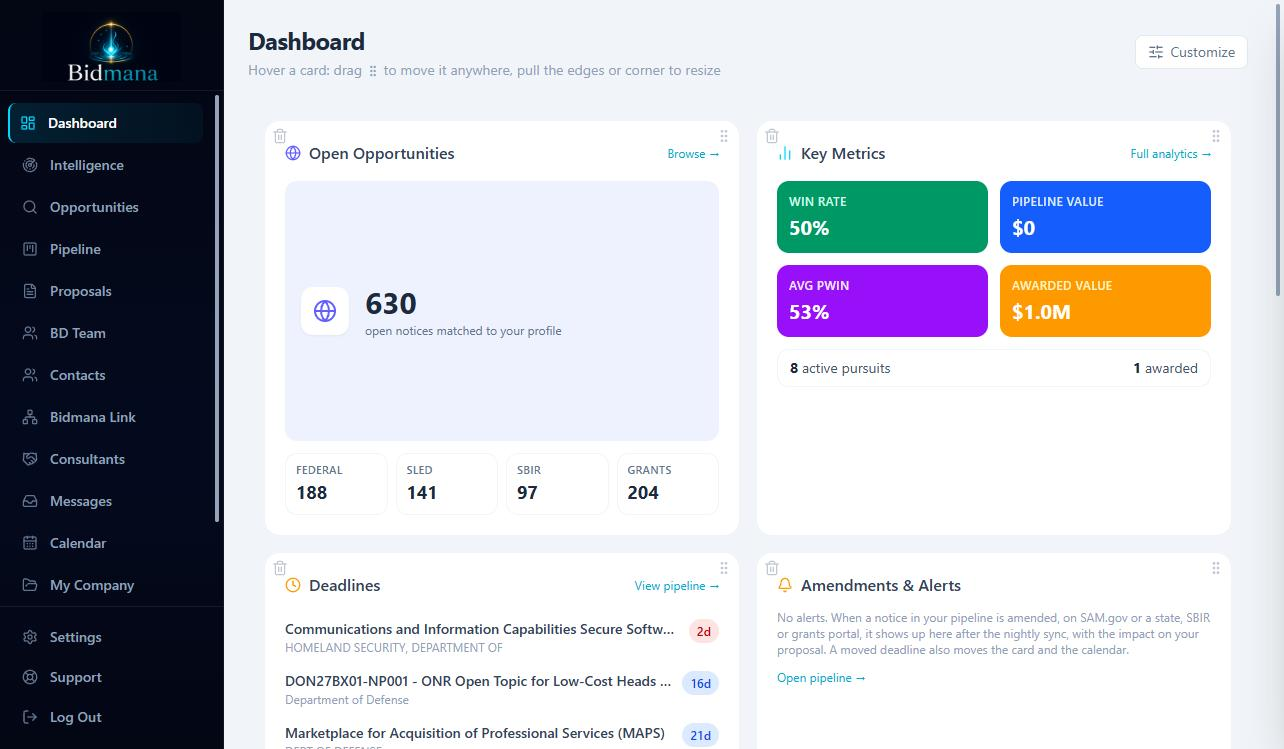
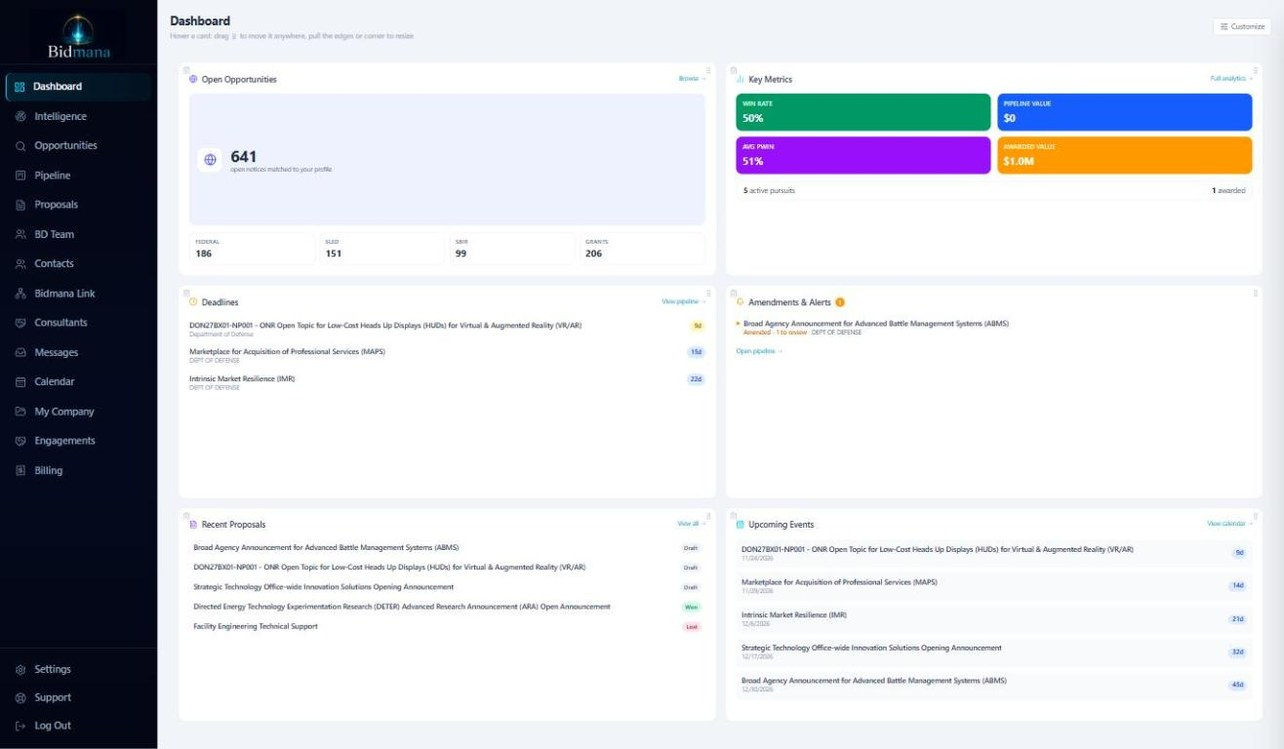
Showcase: dashboard screenshot shows the whole dashboard, nothing cut off

diff --git a/index.html b/index.html
@@ -91,7 +91,7 @@
         </div>
         <div class="shot-screens">
           <figure class="shot-screen is-active" id="shot-dashboard" role="tabpanel" aria-labelledby="tab-dashboard">
-            <img src="assets/showcase/dashboard.jpg" alt="The Bidmana dashboard: open opportunities matched to the company, key metrics, deadlines and amendment alerts" loading="lazy" width="1284" height="749" />
+            <img src="assets/showcase/dashboard.jpg?v=20261116" alt="The Bidmana dashboard on one screen: open opportunities matched to the company, key metrics, deadlines, amendment alerts, recent proposals and upcoming events" loading="lazy" width="1284" height="749" />
           </figure>
           <figure class="shot-screen" id="shot-intelligence" role="tabpanel" aria-labelledby="tab-intelligence" hidden>
             <img src="assets/showcase/intelligence.jpg?v=20261116" alt="Intelligence analytics on one screen: win rate, pipeline by stage, predicted versus actual win probability, score distribution and monthly pipeline adds" loading="lazy" width="1284" height="749" />
